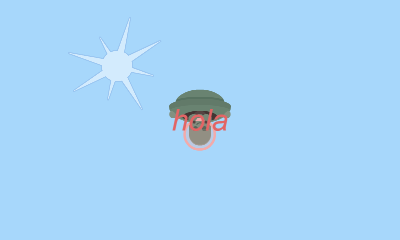
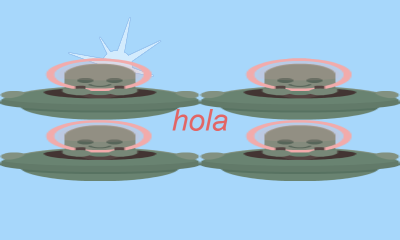
gameObject

diff --git a/loop/engine/GameObject.js b/loop/engine/GameObject.js
@@ -1,11 +1,115 @@
 class GameObject {
 
     constructor(actor) {
-        this.actor ={};
-        Object.assign(this.actor, actor);
-        this.spriteText= new SpriteText(actor);
+        this.container = new Container(actor);
         this.rule = new Rule(actor);
-        actor.x=0;
         console.log(this);
     }
+    get x() { return this.container.x };
+    set x(value) { this.container.x = value };
+
+    get y() { return this.container.y };
+    set y(value) { this.container.y = value };
+
+    get width() { return Math.abs(this.container.sprite.width * this.container.sprite.scale.x) };
+    set width(value) { this.sprite.scale.x = value / this.sprite.width };
+
+    get height() { return Math.abs(this.container.sprite.height * this.container.sprite.scale.y) };
+    set height(value) { this.sprite.scale.y = value / this.sprite.height };
+
+    get scaleX() { return this.container.sprite.scale.x };
+    set scaleX(value) { this.container.sprite.scale.x = value };
+
+    get scaleY() { return this.container.sprite.scale.y };
+    set scaleY(value) { this.container.sprite.scale.y = value };
+
+    get angle() { return this.container.angle };
+    set angle(value) { this.container.angle = value };
+
+    get spriteOn() { return this.container.sprite.visible };
+    set spriteOn(value) { this.container.sprite.visible = value };
+
+    get image() { return this.container.sprite.image };
+    set image(value) {
+        const existsImage = Boolean(player.file.loader.resources[value]);
+        this.container.sprite.texture = (existsImage) ? player.file.loader.resources[value].texture : PIXI.Texture.WHITE;
+    };
+
+    get color() { return PIXI.utils.hex2string(this.container.sprite.tint) };
+    set color(value) { this.container.sprite.tint = PIXI.utils.string2hex(value) };
+
+    get opacity() { return this.container.sprite.alpha };
+    set opacity(value) { this.container.sprite.alpah = value };
+
+    get flipX() { return (Math.sign(this.container.sprite.scale.x) == 1) ? false : true };
+    set flipX(value) { this.container.sprite.scale.x *= (value) ? -1 : 1 };
+
+    get flipY() { return (Math.sign(this.container.sprite.scale.y) == 1) ? false : true };
+    set flipY(value) { this.container.sprite.scale.y *= (value) ? -1 : 1 };
+
+    get scrollX() { return this.container.sprite.scrollX };
+    set scrollX(value) { this.container.sprite.scrollX = value };
+
+    get scrollY() { return this.container.sprite.scrollY };
+    set scrollY(value) { this.container.sprite.scrollY = value }
+
+    get tileX() { return this.container.sprite.tileX };
+    set tileX(value) {
+        const existsImage = Boolean(player.file.loader.resources[this.container.sprite.image]);
+        this.container.sprite.tileX = value;
+        this.container.sprite.width = (existsImage) ? sprite.texture.width * value : 50 * value;
+    };
+
+    get tileY() { return this.container.sprite.tileY };
+    set tileY(value) {
+        const existsImage = Boolean(player.file.loader.resources[this.container.sprite.image]);
+        this.container.sprite.tileY = value;
+        this.container.sprite.height = (existsImage) ? sprite.texture.height * value : 50 * value;
+    };
+
+    get textOn() { return this.container.text.visible };
+    set textOn(value) { this.container.text.visible = value };
+
+    get text() { return this.container.text.text };
+    set text(value) { this.container.text.text = value };
+
+    get font() { return this.container.text.style.fontFamily };
+    set font(value) { this.container.text.style.fontFamily = value };
+
+    get size() { return this.container.text.style.fontSize };
+    set size(value) { this.container.text.style.fontSize = value };
+
+    get fill() { return this.container.text.style.fill };
+    set fill(value) { this.container.text.style.fill = value };
+
+    get style() { return this.container.text.style.fontStyle };
+    set style(value) { this.container.text.style.fontStyle = value };
+
+    get align() { return this.container.text.style.align };
+    set align(value) { this.container.text.style.align = value.toLowerCase() };
+
+    get offsetX() { return this.container.text.position.x };
+    set offsetX(value) { 
+        const w = Math.abs(this.container.prite.width * this.container.sprite.scale.x);
+        var pivot = { x: 0, y: 0 };
+        switch (this.container.text.style.align) {
+            case "left": pivot = { x: -w / 2, y: this.container.text.height / 2 }; break;
+            case "right": pivot = { x: w / 2 - this.container.text.width, y: this.container.text.height / 2 }; break;
+            case "center": pivot = { x: -this.container.text.width / 2, y: this.container.text.height / 2 }; break;
+        }
+        this.container.text.position.x = pivot.x + value ;
+    };
+
+    get offsetY() { return this.container.text.position.y };
+    set offsetY(value) { 
+        const w = Math.abs(this.container.prite.width * this.container.sprite.scale.x);
+        var pivot = { x: 0, y: 0 };
+        switch (this.container.text.style.align) {
+            case "left": pivot = { x: -w / 2, y: this.container.text.height / 2 }; break;
+            case "right": pivot = { x: w / 2 - this.container.text.width, y: this.container.text.height / 2 }; break;
+            case "center": pivot = { x: -this.container.text.width / 2, y: this.container.text.height / 2 }; break;
+        }
+        this.container.text.position.y = pivot.y + value ;
+    };
+
 }

diff --git a/loop/engine/Container.js b/loop/engine/Container.js
@@ -1,0 +1,87 @@
+class Container extends PIXI.Container {
+
+    constructor(actor) {
+        super();
+        const existsImage = Boolean(player.file.loader.resources[actor.image]);
+        const scroll = Boolean((actor.scrollX != 0) || (actor.scrollY != 0));
+        const tile = Boolean((actor.tileX != 1) || (actor.tileY != 1));
+        // Settings properties
+        this.x = actor.x;
+        this.y = actor.y;
+        this.angle = actor.angle;
+        // Sprite properties
+        const sprite = (scroll || tile) ? new PIXI.TilingSprite() : new PIXI.Sprite();
+        sprite.visible = actor.spriteOn;
+        sprite.image = actor.image;
+        sprite.texture = (existsImage) ? player.file.loader.resources[actor.image].texture : PIXI.Texture.WHITE;
+        sprite.texture.rotate = 8;
+        sprite.anchor.set(0.5);
+        if (tile && !scroll) sprite.cacheAsBitmap = true;
+        sprite.tint = PIXI.utils.string2hex(actor.color);
+        sprite.alpha = actor.opacity;
+        sprite.width = (existsImage) ? sprite.texture.width * actor.tileX : 50 * actor.tileX;
+        sprite.height = (existsImage) ? sprite.texture.height * actor.tileY : 50 * actor.tileY;
+        sprite.scale.x = (actor.flipX) ? -actor.scaleX : actor.scaleX;
+        sprite.scale.y = (actor.flipY) ? -actor.scaleY : actor.scaleY;
+        sprite.scrollX = actor.scrollX;
+        sprite.scrollY = actor.scrollY;
+        sprite.tileX = actor.tileX;
+        sprite.tileY = actor.tileY;
+        this.addChild(sprite);
+        // Text properties
+        const w = Math.abs(sprite.width * sprite.scale.x);
+        const style = new PIXI.TextStyle({
+            fontFamily: actor.font,
+            fill: actor.fill,
+            fontSize: actor.size,
+            fontStyle: actor.style,
+            align: actor.align.toLowerCase(),
+            wordWrap: true,
+            wordWrapWidth: w,
+            padding: w
+        });
+        const text = new PIXI.Text(actor.text, style);
+        text.visible = actor.textOn;
+        var pivot = { x: 0, y: 0 };
+        switch (actor.align) {
+            case "Left": pivot = { x: -w / 2, y: text.height / 2 }; break;
+            case "Right": pivot = { x: w / 2 - text.width, y: text.height / 2 }; break;
+            case "Center": pivot = { x: -text.width / 2, y: text.height / 2 }; break;
+        }
+        text.position = { x: pivot.x + actor.offsetX, y: pivot.y + actor.offsetY };
+        text.scale.y = -1;
+        this.addChild(text);
+        this.sprite = sprite;
+        this.text = text;
+    }
+
+    saveState() {
+        // this.previous = {
+        //     x: this.position.x,
+        //     y: this.position.y,
+        //     angle: this.angle
+        // };
+        // const scroll = Boolean((this.actor.scrollX != 0) || (this.actor.scrollY != 0));
+        // if (scroll) {
+        //     this.previous.sprite = { tilePositionX: this.sprite.tilePosition.x, tilePositionY: this.sprite.tilePosition.y };
+        // }
+    }
+
+    update(deltaTime) {
+        // this.saveState();
+        // const scroll = Boolean((this.actor.scrollX != 0) || (this.actor.scrollY != 0));
+        // if (scroll) {
+        //     this.sprite.tilePosition.x += this.sprite.scroll.x * deltaTime;
+        //     this.sprite.tilePosition.y += this.sprite.scroll.y * deltaTime;
+        // }
+    }
+
+    draw(lagOffset) {
+        // this.x = this.x * lagOffset + this.previous.x * (1 - lagOffset);
+        // this.y = this.y * lagOffset + this.previous.y * (1 - lagOffset);
+        // if (this.scroll) {
+        //     this.sprite.tilePosition.x = this.sprite.tilePosition.x * lagOffset + this.previous.sprite.tilePositionX * (1 - lagOffset);
+        //     this.sprite.tilePosition.y = this.sprite.tilePosition.y * lagOffset + this.previous.sprite.tilePositionY * (1 - lagOffset);
+        // }
+    }
+}

diff --git a/loop/engine/Render.js b/loop/engine/Render.js
@@ -18,14 +18,14 @@ class Render {
         // Add Actors to stage
         gameObjects.forEach((go,i) => {
            // gameObjects[i].spriteText = new SpriteText(go.spriteText);
-            this.stage.addChild(gameObjects[i].spriteText);
+            this.stage.addChild(gameObjects[i].container);
         });
         this.gameObjects=gameObjects;
     }
 
     draw(lagOffset) {
         this.gameObjects.forEach(gameObject => {
-            gameObject.spriteText.draw(lagOffset);
+            gameObject.container.draw(lagOffset);
         });
     }
 

diff --git a/loop/engine/Logic.js b/loop/engine/Logic.js
@@ -6,7 +6,7 @@ class Logic {
 
     update(deltaTime) {
          this.gameObjects.forEach(gameObject => {
-             gameObject.spriteText.update(deltaTime);
+             gameObject.container.update(deltaTime);
          })
     }
 }

diff --git a/loop/engine/index.php b/loop/engine/index.php
@@ -59,7 +59,7 @@
 		<script src="Do.js"></script>
 
 		<script src="GameObject.js"></script>
-		<script src="SpriteText.js"></script>
+		<script src="Container.js"></script>
 		<script src="Rule.js"></script>
 
 		<script>
